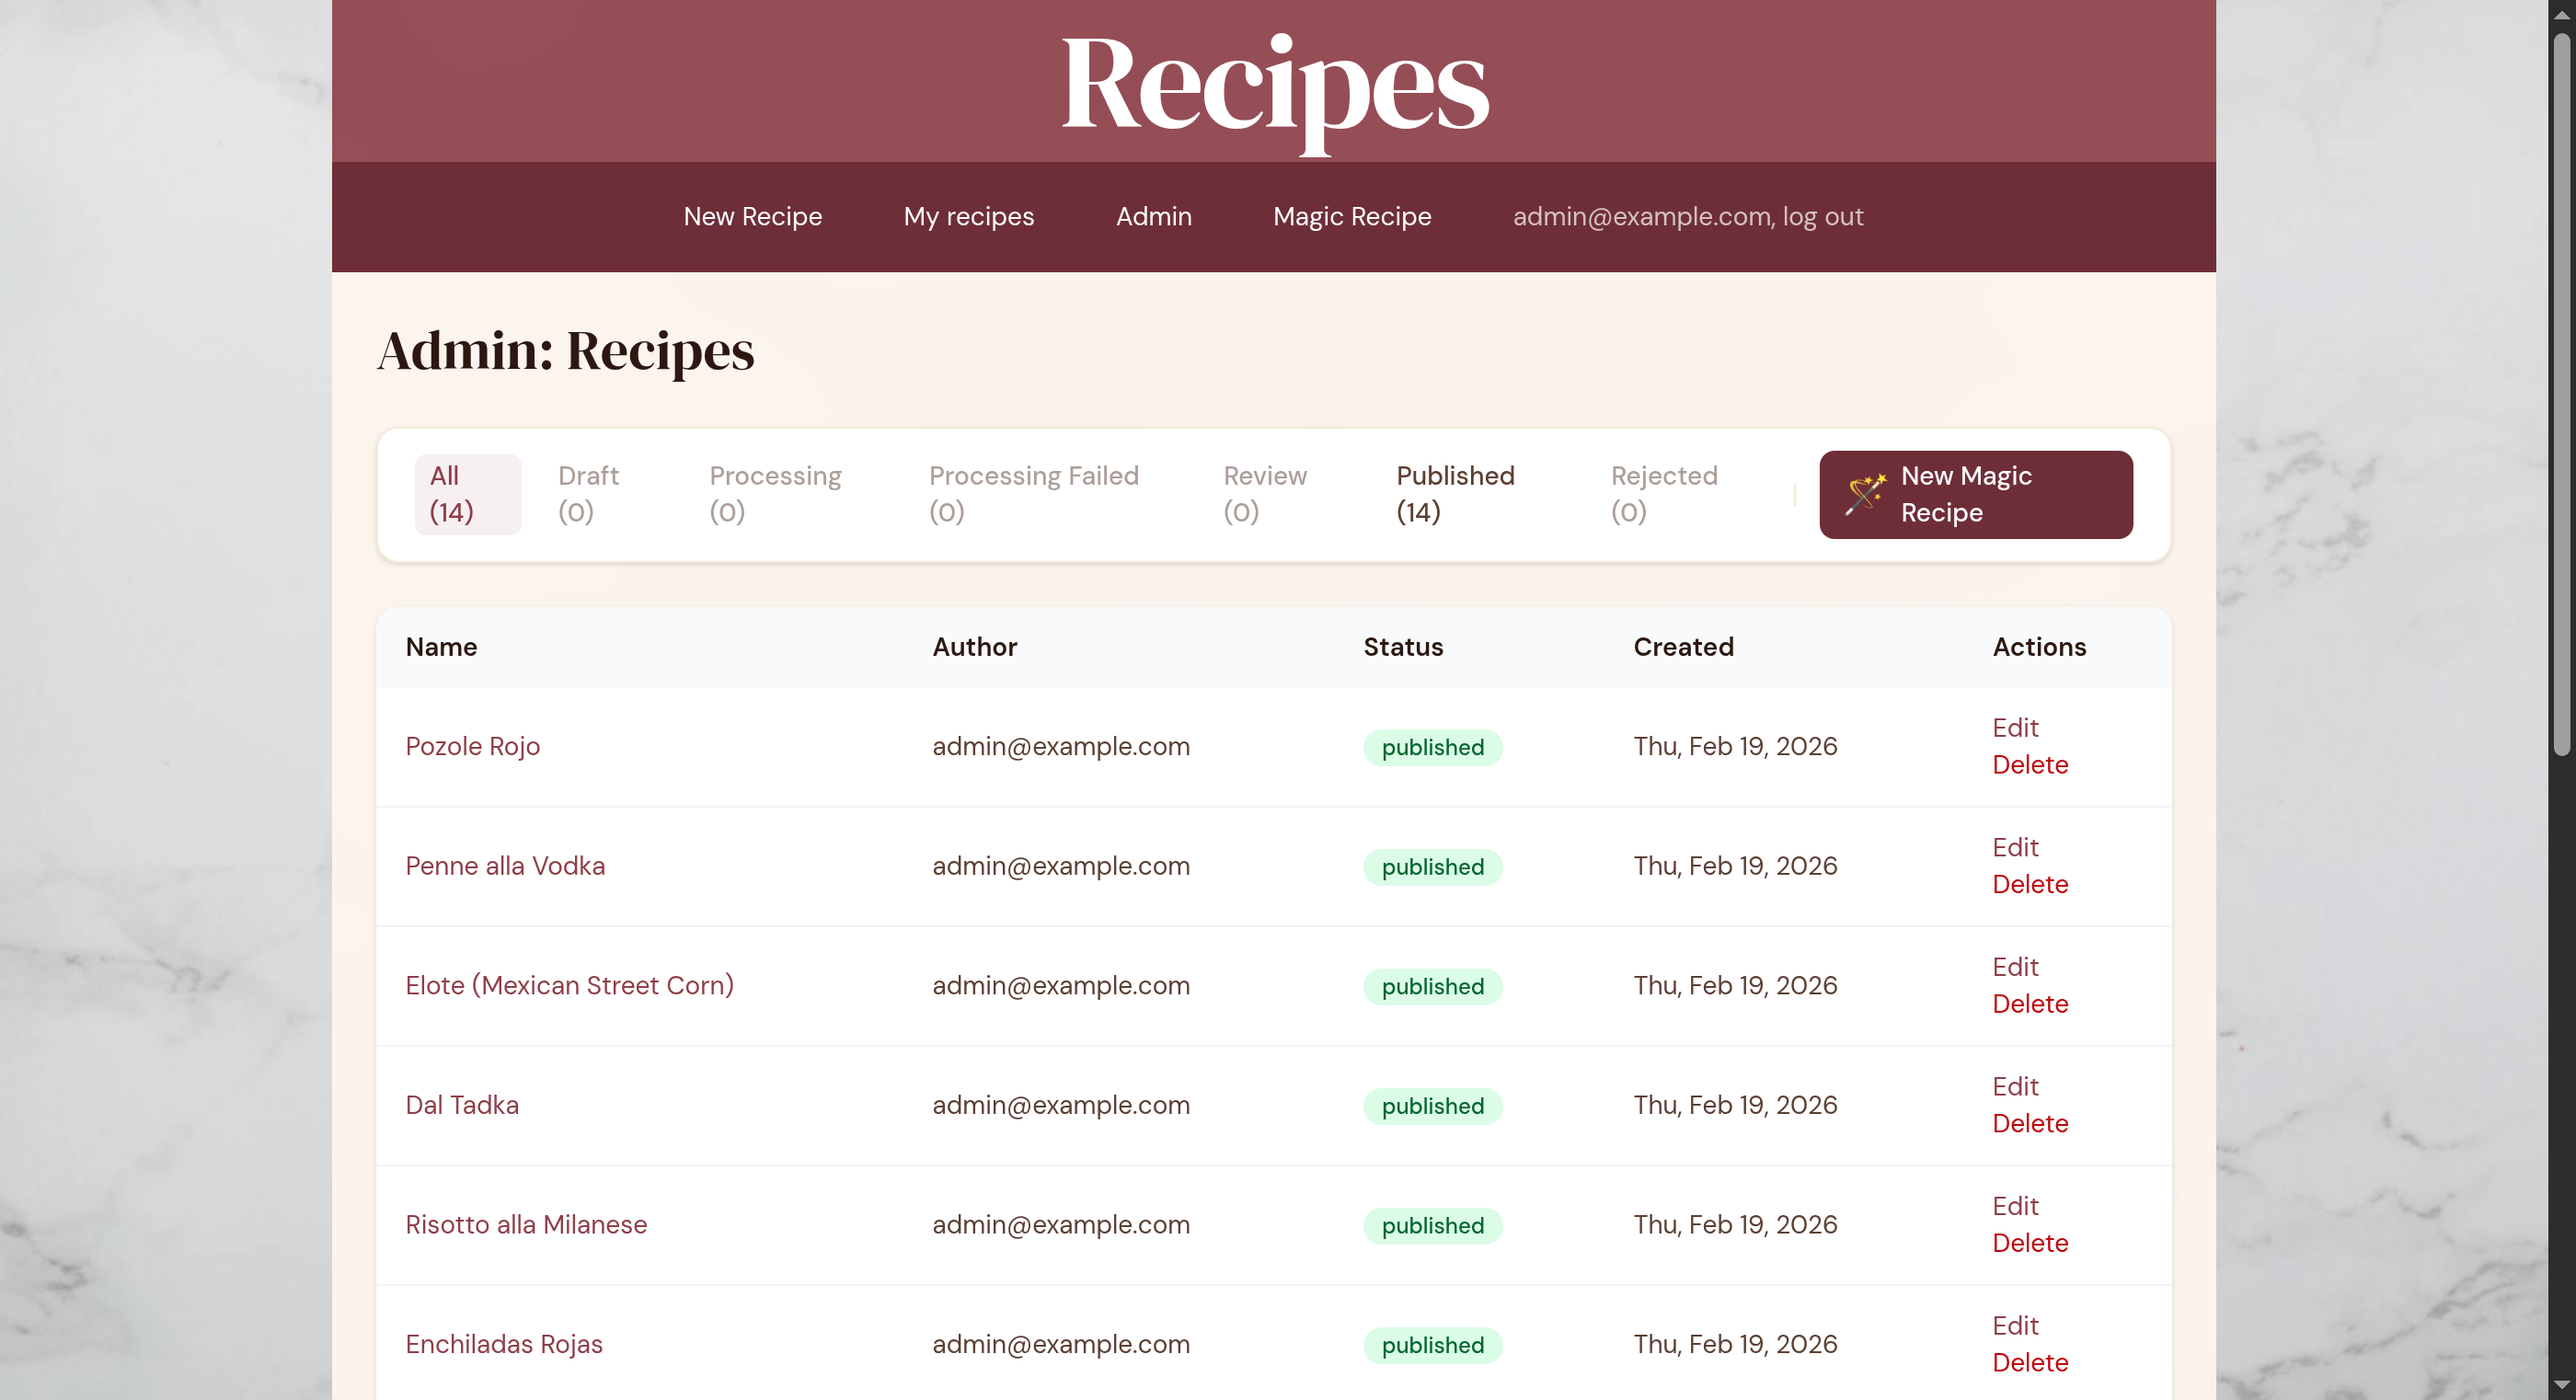
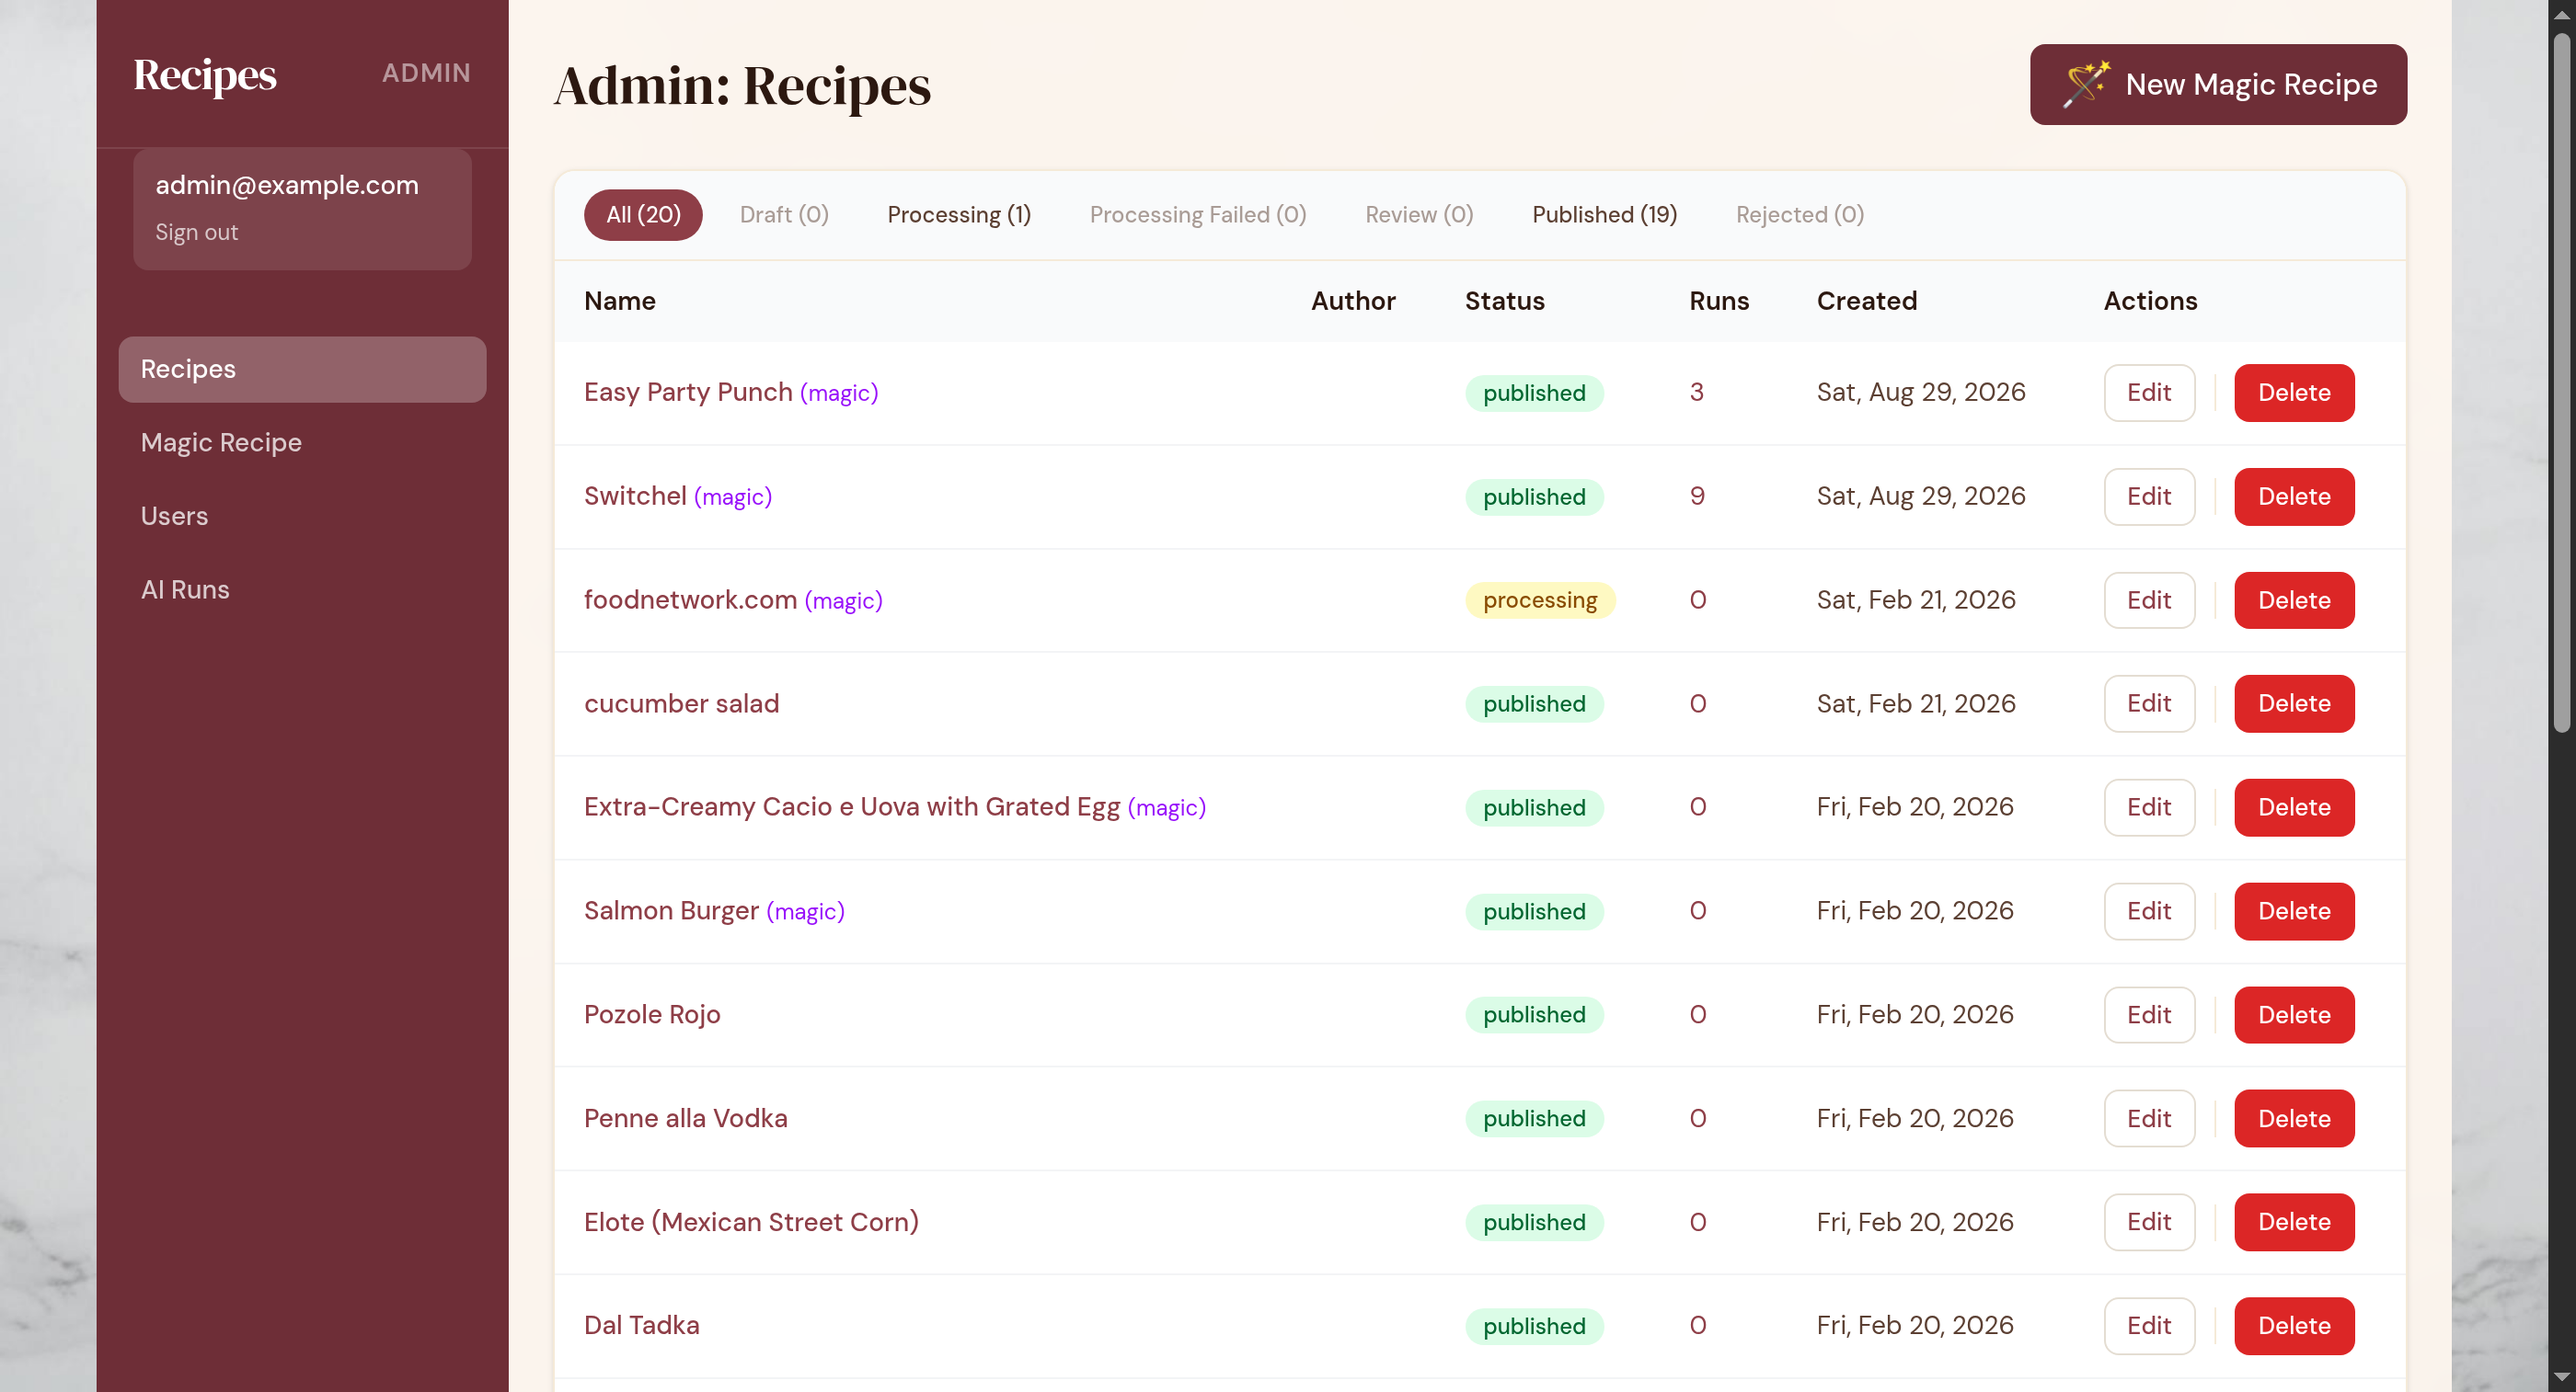
Regenerate README screenshots and document git branch policy
Refresh homepage, recipe detail, and admin screenshots against the new
UI; document that force-pushing is allowed on pre-merge feature branches
only, never the main branch, in the agent docs.

diff --git a/CLAUDE.md b/CLAUDE.md
@@ -68,7 +68,7 @@ bin/screenshots
 - `app/controllers/recipes_controller.rb` — Main CRUD with ownership-based authorization; `require_approved!` fires before new/create/edit/update; `ensure_visible` raises `ActiveRecord::RecordNotFound` (→ 404) for guests on non-published recipes (no existence oracle); `page`/`per_page` clamped (`page` ≥ 1, `per_page` 1–48); nested `ingredient_attributes` only exposes `:id` to admins so non-admins can't rename shared ingredients
 - `app/controllers/users/sessions_controller.rb` / `registrations_controller.rb` — Devise overrides that rate-limit `#create` (10 per 3 min for sessions, 10 per 10 min for registrations) via `rate_limit ... with: :rate_limited` returning 429 `devise.failure.too_many_requests`
 - `app/controllers/admin/base_controller.rb` — Admin auth via `current_user&.admin?` before_action
-- `app/controllers/admin/recipes_controller.rb` — Admin recipe management (publish, reject, reprocess, destroy)
+- `app/controllers/admin/recipes_controller.rb` — Admin recipe management (publish, reject, reprocess, destroy); status actions redirect back to `admin_recipes_path`
 - `app/controllers/admin/magic_recipes_controller.rb` — AI recipe import (new, create)
 - `app/controllers/admin/users_controller.rb` — User management: index lists pending and approved non-admin users; approve patches `approved: true`
 - `app/controllers/admin/ai_classifier_runs_controller.rb` — AI run history with filtering, pagination, and per-recipe grouping; rerun action re-enqueues MagicRecipeJob
@@ -84,9 +84,13 @@ bin/screenshots
 - `app/jobs/magic_recipe_job.rb` — Background job for AI recipe processing pipeline
 
 ### Key Views / Partials
-- `app/views/recipes/_control_panel.html.erb` — Role-aware action bar on recipe#show; renders for the recipe owner (Edit) or any admin (status badge + Edit + Publish/Reject/Reprocess/Delete gated on workflow state)
-- `app/views/recipes/_show_content.html.erb` — Recipe detail; author shown as `user_username` (not email), linked to author filter
-- `app/views/admin/recipes/index.html.erb` — Admin recipe list with unified status-filter/action bar; nav bar includes Users and AI Runs links
+- `app/views/layouts/admin.html.erb` — Dedicated admin layout: slim terra sidebar (`app/views/admin/_sidebar.html.erb`) with Recipes / Magic Recipe / Users / AI Runs nav, plus flashes, footer, and scripts; selected explicitly via `layout "admin"` on `Admin::BaseController` (Rails does not auto-resolve `layouts/admin` for namespaced controllers — `_implied_layout_name` would look up `layouts/admin/recipes`)
+- `app/views/recipes/_show_content.html.erb` — Publication-style recipe detail: hero image, title + metadata chips (prep/cook/makes/author shown as `user_username`, not email), two-column ingredients|directions on desktop, tags strip, lightbox gallery
+- `app/views/recipes/_control_panel.html.erb` — Role-aware toolbar on recipe#show; renders for the recipe owner (Edit) or any admin (status badge + grouped Publish/Reject/Reprocess buttons + separated Delete); uses shared `.btn` component classes
+- `app/views/recipes/_recipe.html.erb` — Recipe card with square image crop and a corner time badge when `cooking_time` is present
+- `app/views/recipes/_filter_set.html.erb` — Search form with collapsible `<details>` groups around the tag autocompletes (all open by default)
+- `app/views/recipes/_tagged_attributes.html.erb` / `app/views/acts_as_taggable_on/tags/_tag.html.erb` — Tag chips, colored per context, linking to the matching filter
+- `app/views/admin/recipes/index.html.erb` — Admin recipe index: page header with primary "New Magic Recipe" CTA, status-filter tab strip above the table, and grouped row actions (Publish/Reject/Reprocess/Edit with Delete separated)
 - `app/views/admin/users/index.html.erb` — Pending and approved user lists with approve buttons
 - `app/views/admin/ai_classifier_runs/` — AI run index (grouped by recipe) and show (full prompt/response detail)
 - `app/views/devise/registrations/new.html.erb` — Custom registration form that includes the username field (Simple Form)
@@ -199,6 +203,8 @@ bin/rake
 ```
 
 This runs in order: bundler-audit (with DB update), brakeman, rubocop, rspec. All four must be green. Do not create a PR if any step fails — fix the issue locally first. This catches CVEs, security warnings, lint offenses, and test failures before CI sees them.
+
+**Git branch policy:** force-pushing (rewriting history) is allowed on any pre-merge feature branch — use `git push --force-with-lease`. Never force-push to `main` (the default branch) or rewrite any history that touches it.
 
 **Always include a documentation update sweep in the same PR.** Before pushing or opening a PR, review the change and update anything it touches in:
 - `CLAUDE.md` (and any other agentic instruction files, e.g. `AGENTS.md`) — project overview, tech stack, project structure, routes, workflow, environment variables, key patterns, testing notes, and commands.

diff --git a/README.md b/README.md
@@ -13,6 +13,7 @@ MilkSteak is a recipe tracker web application built with love.
 - AI-powered recipe import from URLs or pasted text (admin only, via Anthropic Claude)
 - Role-aware control panel on recipe pages: owners see Edit; admins see status badge and workflow actions (Publish, Reject, Reprocess, Delete)
 - Admin workflow for reviewing, publishing, and rejecting recipes
+- Dedicated admin backend with sidebar navigation (Recipes, Magic Recipe, Users, AI Runs) and status-filter tabs on the recipe index
 - Image uploads with automatic variant generation (thumbnails, large)
 - Pagination and SEO-friendly recipe URLs
 - User accounts with email confirmation (Devise); new users are pending until an admin approves them
@@ -25,7 +26,7 @@ MilkSteak is a recipe tracker web application built with love.
 |---|---|
 | ![Homepage](docs/screenshots/homepage.png) | ![Recipe detail](docs/screenshots/recipe_detail.png) |
 
-| Admin recipe management with status filtering |
+| Admin recipe management with sidebar nav and status-filter tabs |
 |---|
 | ![Admin index](docs/screenshots/admin_index.png) |
 
